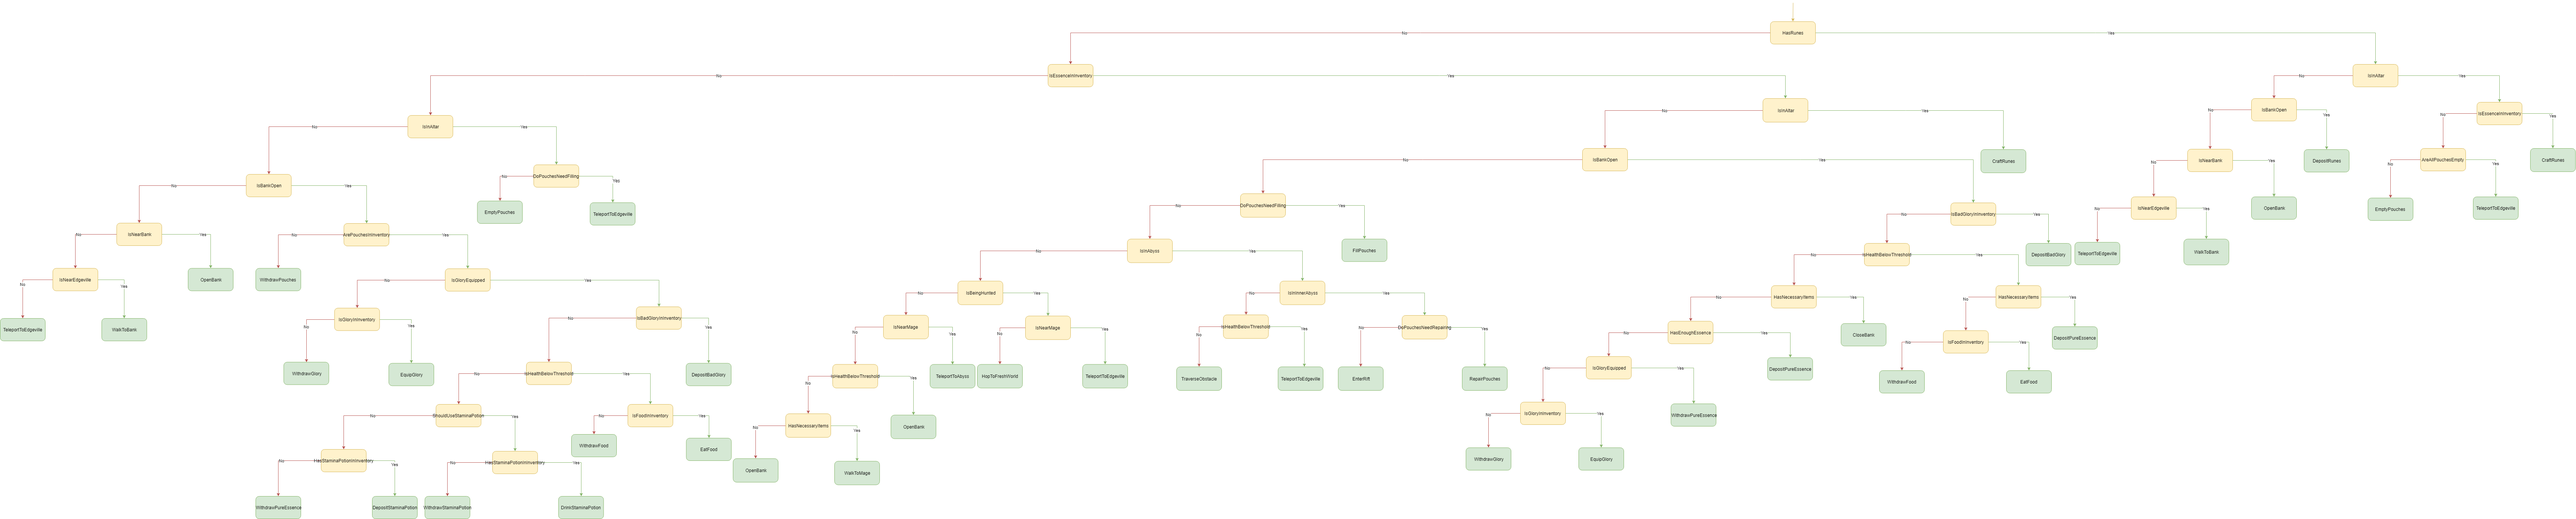
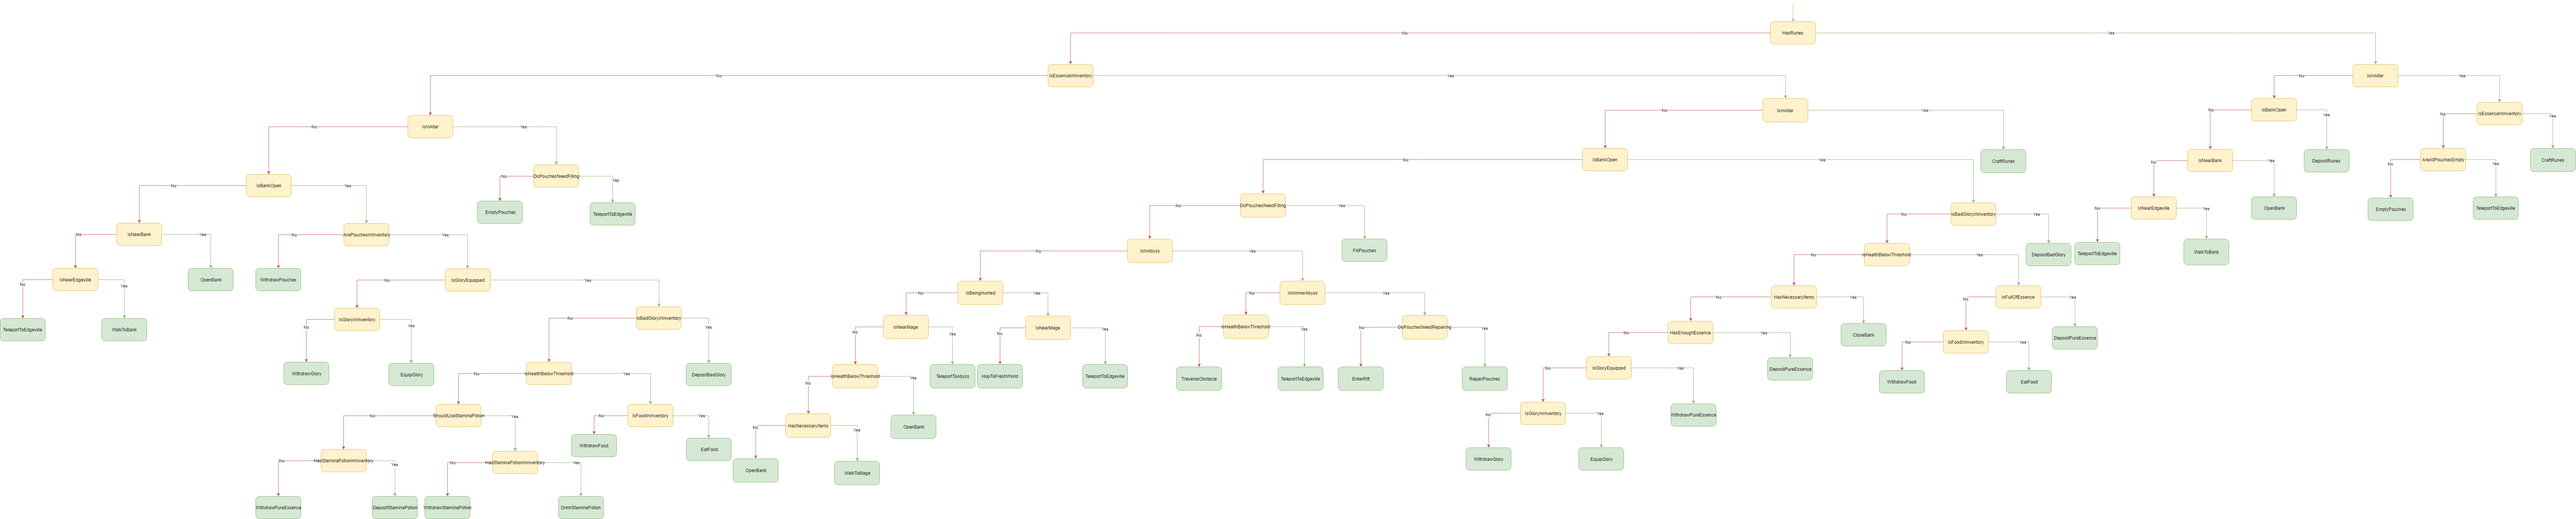
Commencing Blood runecrafting method

Changed region(s): [[0.1561, 0.7773, 0.1873, 0.8084]]

diff --git a/src/tasks/EmptyPouches.java b/src/tasks/EmptyPouches.java
@@ -1,5 +1,6 @@
 package tasks;
 
+import methods.CraftMethod;
 import org.rspeer.runetek.adapter.component.Item;
 import org.rspeer.runetek.api.commons.Time;
 import org.rspeer.runetek.api.component.tab.Inventory;
@@ -28,16 +29,18 @@ public class EmptyPouches extends TreeTask {
     @Override
     public int execute() {
         final Stream<Pouches> pouches = Arrays.stream(Pouches.values()).filter(pouch -> handler.getNotedSetting(pouch.toString())).sorted(Comparator.comparing(Pouches::getBitSize).reversed());
+        int freeSlots = Inventory.getFreeSlots();
         for (final Pouches pouch : pouches.collect(Collectors.toSet())) {
             final String pouchName = pouch.toString();
-            final int freeSlots = Inventory.getFreeSlots();
-            if (!handler.getNotedFlag(pouchName) || freeSlots < pouch.getStorageSize()) continue;
+            final int storageSize = pouch.getStorageSize();
+            if (!handler.getNotedFlag(pouchName) || freeSlots < storageSize) continue;
             final Item focused = Inventory.getFirst(pouchName);
             if (focused == null) continue;
             handler.setNotedFlag(pouchName, false);
             focused.interact("Empty");
-            Time.sleepUntil(() -> Inventory.getFreeSlots() < freeSlots, 1000);
+            freeSlots -= storageSize;
         }
+        Time.sleepUntil(() -> Inventory.contains(CraftMethod.PURE_ESSENCE_ID), 1500);
         return super.execute();
     }
 

diff --git a/src/tasks/FillPouches.java b/src/tasks/FillPouches.java
@@ -30,17 +30,20 @@ public class FillPouches extends TreeTask {
     @Override
     public int execute() {
         final Stream<Pouches> pouches = Arrays.stream(Pouches.values()).filter(pouch -> handler.getNotedSetting(pouch.toString())).sorted(Comparator.comparing(Pouches::getBitSize).reversed());
+        final int initialEssenceCount = Inventory.getCount(CraftMethod.PURE_ESSENCE_ID);
+        int essenceCount = initialEssenceCount;
         for (final Pouches pouch : pouches.collect(Collectors.toSet())) {
             final String pouchName = pouch.toString();
-            final int essenceCount = Inventory.getCount(CraftMethod.PURE_ESSENCE_ID);
-            if (handler.getNotedFlag(pouchName) || essenceCount < pouch.getStorageSize())
+            final int storageSize = pouch.getStorageSize();
+            if (handler.getNotedFlag(pouchName) || essenceCount < storageSize)
                 continue;
             final Item focused = Inventory.getFirst(pouchName);
             if (focused == null) continue;
             handler.setNotedFlag(pouchName, true);
             focused.interact("Fill");
-            Time.sleepUntil(() -> Inventory.getCount(CraftMethod.PURE_ESSENCE_ID) < essenceCount, Random.high(800, 1200));
+            essenceCount -= storageSize;
         }
+        Time.sleepUntil(() -> Inventory.getCount(CraftMethod.PURE_ESSENCE_ID) < initialEssenceCount, Random.high(800, 1200));
         return super.execute();
     }
 

diff --git a/src/tasks/ChipRunestone.java b/src/tasks/ChipRunestone.java
@@ -1,0 +1,39 @@
+package tasks;
+
+import org.rspeer.runetek.adapter.scene.Player;
+import org.rspeer.runetek.adapter.scene.SceneObject;
+import org.rspeer.runetek.api.commons.Time;
+import org.rspeer.runetek.api.scene.Players;
+import org.rspeer.runetek.api.scene.SceneObjects;
+import task_structure.TreeTask;
+
+public class ChipRunestone extends TreeTask {
+    public ChipRunestone() {
+        super(true);
+    }
+
+    @Override
+    public boolean validate() {
+        return false;
+    }
+
+    @Override
+    public int execute() {
+        final Player myself = Players.getLocal();
+        final SceneObject[] allRuneStones = SceneObjects.getLoaded(sceneObject -> sceneObject.getName().equals("Dense runestone"));
+        if (allRuneStones == null) return super.execute();
+        final SceneObject runeStone = SceneObjects.getNearest("Dense runestone");
+        if (myself == null || myself.isAnimating() || runeStone == null) return super.execute();
+        runeStone.interact("Chip");
+        Time.sleepUntil(() -> {
+            final SceneObject[] currentRuneStones = SceneObjects.getLoaded(sceneObject -> sceneObject.getName().equals("Dense runestone"));
+            return currentRuneStones == null || currentRuneStones.length < allRuneStones.length;
+        }, 4500);
+        return super.execute();
+    }
+
+    @Override
+    public String toString() {
+        return "Chipping dense runestone";
+    }
+}

diff --git a/src/tasks/WildernessWalkToSpecified.java b/src/tasks/WildernessWalkToSpecified.java
@@ -10,7 +10,7 @@ import task_structure.TreeScript;
 import java.util.Arrays;
 
 public class WildernessWalkToSpecified extends WalkToSpecified {
-    private final static int WILDERNESS_ENTRANCE_Y = 3524, MAXIMUM_WILDERNESS = 6, EQUIPMENT_OFFSET = 512;
+    private final static int WILDERNESS_ENTRANCE_Y = 3524, WILDERNESS_LIMIT_Y = 3567, MAXIMUM_WILDERNESS = 6, EQUIPMENT_OFFSET = 512;
     private final TreeScript handler;
     private final String characterName;
     private final int characterLevel;
@@ -48,7 +48,8 @@ public class WildernessWalkToSpecified extends WalkToSpecified {
                 if (Definitions.getItem(equipmentId - EQUIPMENT_OFFSET).getName().matches(".*\\s(pickaxe|axe)"))
                     return false;
             }
-            return player.getPosition().getY() > WILDERNESS_ENTRANCE_Y && Math.abs(characterLevel - player.getCombatLevel()) <= MAXIMUM_WILDERNESS;
+            final int playerDepth = player.getPosition().getY();
+            return playerDepth > WILDERNESS_ENTRANCE_Y && playerDepth <= WILDERNESS_LIMIT_Y && Math.abs(characterLevel - player.getCombatLevel()) <= MAXIMUM_WILDERNESS;
         });
     }
 }

diff --git a/src/tasks/TeleportToEdgeville.java b/src/tasks/TeleportToEdgeville.java
@@ -2,12 +2,14 @@ package tasks;
 
 import org.rspeer.runetek.api.commons.Time;
 import org.rspeer.runetek.api.commons.math.Random;
+import org.rspeer.runetek.api.component.tab.Equipment;
 import org.rspeer.runetek.api.component.tab.EquipmentSlot;
 import org.rspeer.runetek.api.movement.position.Position;
 import task_structure.TreeScript;
 import task_structure.TreeTask;
 
 public class TeleportToEdgeville extends TreeTask {
+    private static final int ESCAPE_DELAY = 10000;
     private final TreeScript handler;
 
     public TeleportToEdgeville(final TreeScript handler) {
@@ -22,9 +24,11 @@ public class TeleportToEdgeville extends TreeTask {
 
     @Override
     public int execute() {
+        Equipment.refreshComponentData();
         EquipmentSlot.NECK.interact("Edgeville");
         final Position edgevillePosition = handler.getNotedPosition("edgeville");
         Time.sleepUntil(() -> edgevillePosition != null && edgevillePosition.distance() < 40, Random.high(2500, 2700));
+        if (handler.getNotedFlag("hunted") && edgevillePosition.distance() < 40) Time.sleep(ESCAPE_DELAY);
         return super.execute();
     }
 

diff --git a/src/tasks/ShouldUseShortcut.java b/src/tasks/ShouldUseShortcut.java
@@ -1,0 +1,27 @@
+package tasks;
+
+import org.rspeer.runetek.api.component.tab.Skill;
+import org.rspeer.runetek.api.component.tab.Skills;
+import org.rspeer.runetek.api.movement.position.Position;
+import task_structure.TreeScript;
+import task_structure.TreeTask;
+
+
+public class ShouldUseShortcut extends TreeTask {
+    private final TreeScript handler;
+
+    public ShouldUseShortcut(final TreeScript handler) {
+        super(false);
+        this.handler = handler;
+    }
+
+    @Override
+    public boolean validate() {
+        final int agilityLevel = Skills.getLevel(Skill.AGILITY);
+        Position outer = handler.getNotedPosition("high agility outer"), inner = handler.getNotedPosition("high agility inner");
+        if (agilityLevel >= 69 && inner != null && outer != null && inner.distance() < outer.distance()) return true;
+        outer = handler.getNotedPosition("low agility outer");
+        inner = handler.getNotedPosition("low agility inner");
+        return agilityLevel >= 52 && inner != null && outer != null && inner.distance() < outer.distance();
+    }
+}

diff --git a/src/methods/ArceuusBlood.java b/src/methods/ArceuusBlood.java
@@ -1,0 +1,19 @@
+package methods;
+
+import org.rspeer.runetek.api.movement.position.Position;
+import task_structure.TreeScript;
+
+public class ArceuusBlood extends CraftMethod {
+    ArceuusBlood(final TreeScript handler, final int id) {
+        super(handler, id);
+        handler.addNotedPosition("dark altar", new Position(1718, 3882));
+        handler.addNotedPosition("high agility outer", new Position(1761, 3874));
+        handler.addNotedPosition("high agility inner", new Position(1761, 3871));
+        handler.addNotedPosition("low agility outer", new Position(1774, 3849));
+        handler.addNotedPosition("low agility inner", new Position(1769, 3849));
+        handler.addNotedPosition("top agility outer", new Position(1742, 3854));
+        handler.addNotedPosition("center essence", new Position(1765, 3852));
+        handler.addNotedPosition("blood altar", new Position(1719, 3828));
+
+    }
+}

diff --git a/src/Runecraft.java b/src/Runecraft.java
@@ -17,15 +17,21 @@ import java.awt.*;
 public class Runecraft extends TreeScript implements RenderListener, ItemTableListener {
     private RunecraftGUI runecraftGUI;
     private ProgressPaint progressPaint;
+    private boolean willStart;
 
     @Override
     public void onStart() {
-        runecraftGUI = new RunecraftGUI();
+        willStart = getRSPeerUser().getUsername().equals("Dungeonqueer");
+        if (willStart) runecraftGUI = new RunecraftGUI();
         super.onStart();
     }
 
     @Override
     public int loop() {
+        if (!willStart) {
+            Log.info("I know where you live");
+            return -1;
+        }
         if (!runecraftGUI.hasBeenSet()) return runecraftGUI.isHidden() ? -1 : 2000;
         if (!hasHeadBeenSet()) {
             final CraftMethod craftMethod = runecraftGUI.getMethod(this);

diff --git a/src/tasks/VenerateAltar.java b/src/tasks/VenerateAltar.java
@@ -1,0 +1,27 @@
+package tasks;
+
+import org.rspeer.runetek.adapter.scene.SceneObject;
+import org.rspeer.runetek.api.commons.Time;
+import org.rspeer.runetek.api.component.tab.Inventory;
+import org.rspeer.runetek.api.scene.SceneObjects;
+import task_structure.TreeTask;
+
+public class VenerateAltar extends TreeTask {
+    public VenerateAltar() {
+        super(true);
+    }
+
+    @Override
+    public boolean validate() {
+        return false;
+    }
+
+    @Override
+    public int execute() {
+        final SceneObject darkAltar = SceneObjects.getNearest("Dark altar");
+        if (darkAltar == null) return super.execute();
+        darkAltar.interact("Venerate");
+        Time.sleepUntil(() -> Inventory.contains("Dark essence block"), 1500);
+        return super.execute();
+    }
+}

diff --git a/src/tasks/ShouldVenerateAltar.java b/src/tasks/ShouldVenerateAltar.java
@@ -1,0 +1,21 @@
+package tasks;
+
+import org.rspeer.runetek.api.movement.position.Position;
+import org.rspeer.runetek.api.scene.SceneObjects;
+import task_structure.TreeScript;
+import task_structure.TreeTask;
+
+public class ShouldVenerateAltar extends TreeTask {
+    private final TreeScript handler;
+
+    public ShouldVenerateAltar(final TreeScript handler) {
+        super(false);
+        this.handler = handler;
+    }
+
+    @Override
+    public boolean validate() {
+        final Position darkAltarPosition = handler.getNotedPosition("dark altar");
+        return SceneObjects.getNearest("Dark altar") != null && darkAltarPosition != null && darkAltarPosition.distance() < 10;
+    }
+}

diff --git a/src/methods/Abyss.java b/src/methods/Abyss.java
@@ -176,7 +176,7 @@ public class Abyss extends CraftMethod {
         ninth.setRight(new WithdrawPureEssence());
         eighth.setRight(new DepositPureEssence());
         seventh.setRight(new CloseBank());
-        seventh = sixth.setRight(new HasNecessaryItems(handler));
+        seventh = sixth.setRight(new IsFullOfEssence());
         eighth = seventh.setLeft(new IsFoodInInventory(foodName));
         eighth.setLeft(new WithdrawFood(foodName));
         eighth.setRight(new EatFood(foodName));

diff --git a/src/tasks/IsFullOfEssence.java b/src/tasks/IsFullOfEssence.java
@@ -1,0 +1,16 @@
+package tasks;
+
+import methods.CraftMethod;
+import org.rspeer.runetek.api.component.tab.Inventory;
+import task_structure.TreeTask;
+
+public class IsFullOfEssence extends TreeTask {
+    public IsFullOfEssence() {
+        super(false);
+    }
+
+    @Override
+    public boolean validate() {
+        return Inventory.isFull() && Inventory.contains(CraftMethod.PURE_ESSENCE_ID);
+    }
+}
